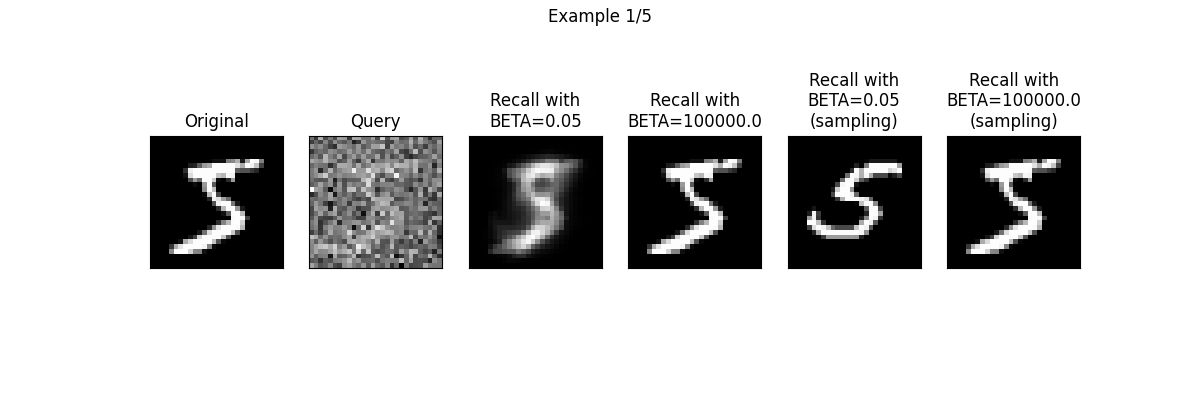
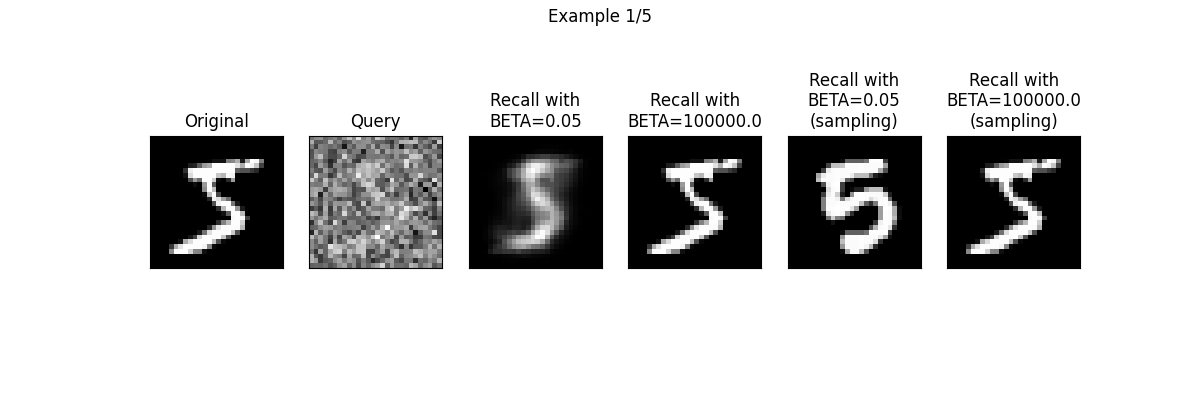
parallel sampling

Changed region(s): [[0.2467, 0.33, 0.37, 0.69], [0.6475, 0.39, 0.7708, 0.63], [0.4008, 0.39, 0.4933, 0.66]]

diff --git a/mhn.py b/mhn.py
@@ -7,7 +7,7 @@ class ModernHopfieldNetwork:
     def __init__(self, K):
         self.K = K
 
-    def __call__(self, query, beta, use_cosine_similarity=True, sample=False, seed=1, device=None):
+    def __call__(self, query, beta, use_cosine_similarity=True, sample=False, device=None):
 
         assert len(query.shape) == 2 # query must be of shape (batch, dim)
 
@@ -22,12 +22,8 @@ class ModernHopfieldNetwork:
         sim_score = F.softmax(beta * sim_score, dim=1)
 
         if sample:
-            rng = np.random.default_rng(seed)
-            choices = []
-            for i in range(sim_score.shape[0]): # there might be a more optimal way to do that (e.g. in parallel)
-                score = sim_score[i].detach().cpu().numpy()
-                choices.append(rng.choice(range(sim_score.shape[1]), size=1, p=score)[0])
-            sim_score = F.one_hot(torch.tensor(choices).to(device), sim_score.shape[1]).float()
+            choices = torch.multinomial(sim_score, 1)
+            sim_score = F.one_hot(choices, sim_score.size(1)).float()
 
 
         out = torch.matmul(sim_score, self.K)

diff --git a/main.py b/main.py
@@ -12,19 +12,8 @@ BETA2 = 1e5
 
 def main():
 
-    torch.manual_seed(0)
+    torch.manual_seed(420)
     device = "cpu" # torch.device('cuda' if torch.cuda.is_available() else 'cpu')
-
-
-    # Try storing random data
-    keys = torch.rand((MEMORY_SIZE, PATTERN_SIZE)).float().to(device)
-    queries = torch.rand((BATCH_SIZE, PATTERN_SIZE)).float().to(device)
-
-    memory = ModernHopfieldNetwork(keys)
-
-    recall = memory(queries, BETA)
-    print(recall.shape)
-
 
 
     # Try storing MNIST data
@@ -33,7 +22,7 @@ def main():
 
     memory = ModernHopfieldNetwork(imgs)
 
-    for i in range(5):
+    for i in range(10):
 
         query = imgs[i:i+1].clone()
 
